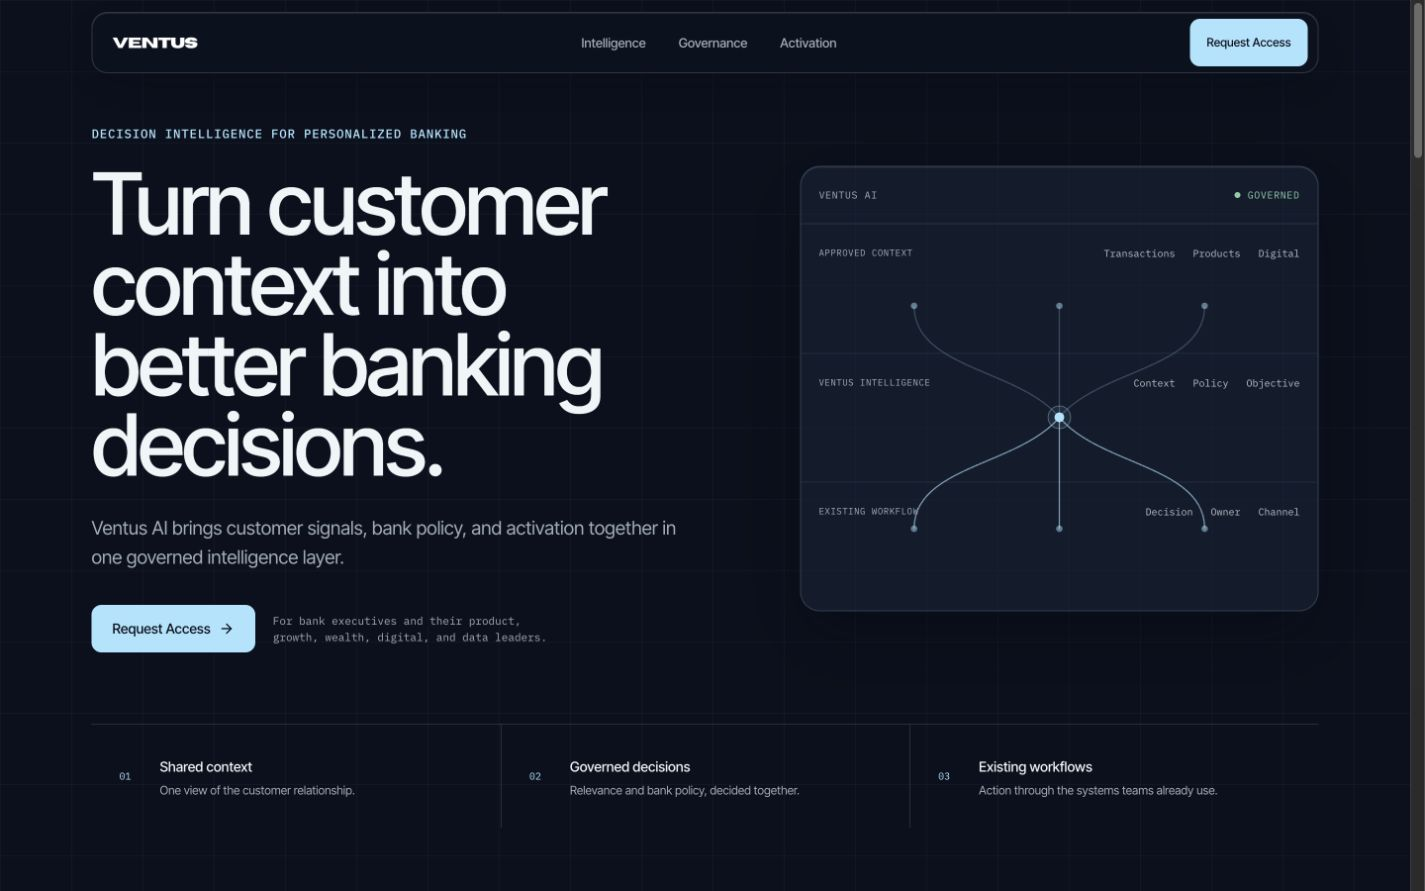
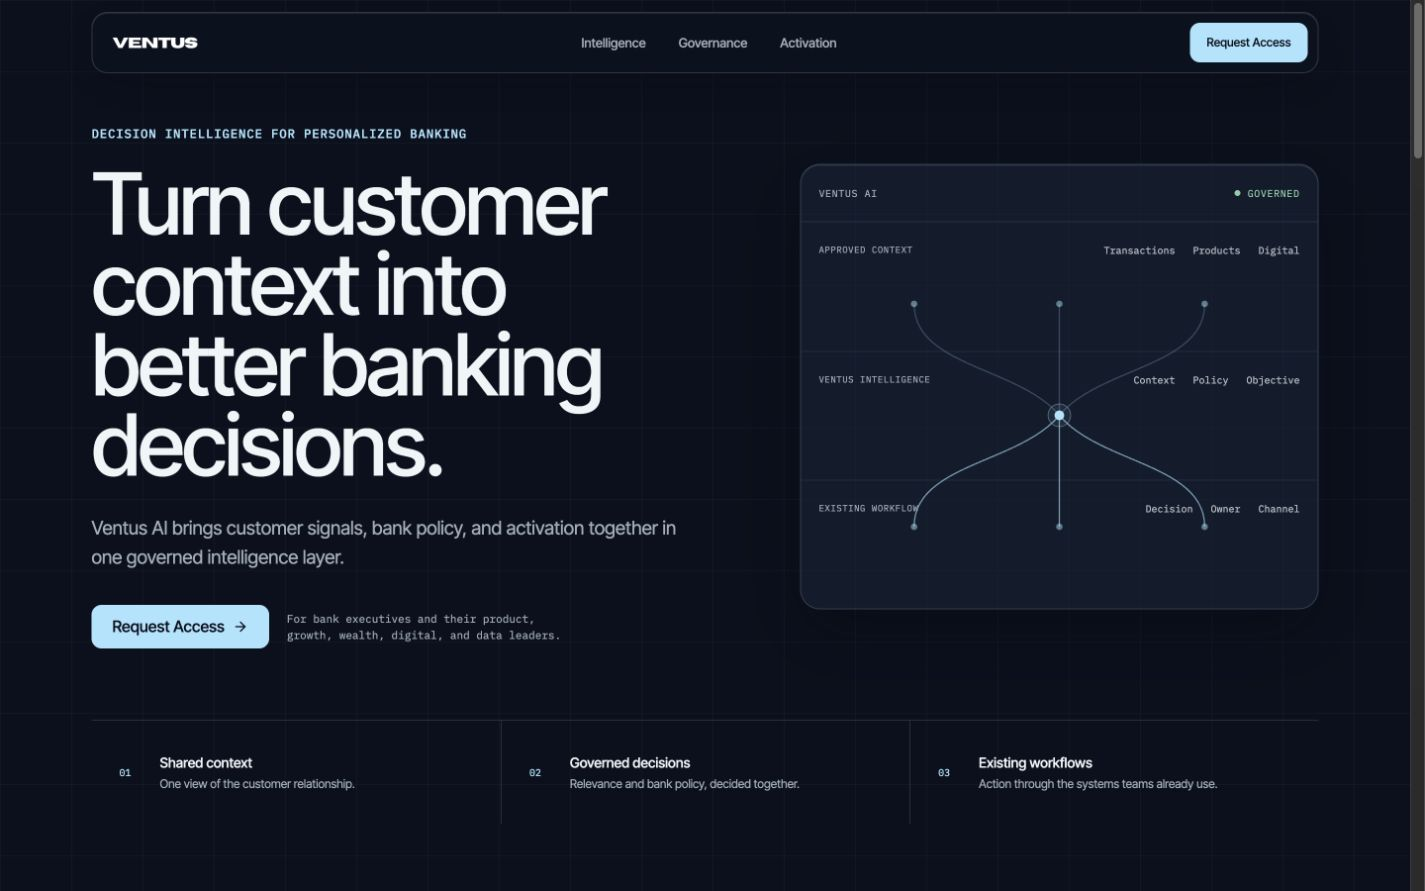
Record Finnovate preview acceptance evidence

diff --git a/docs/finnovate-landing-acceptance.md b/docs/finnovate-landing-acceptance.md
@@ -4,17 +4,18 @@ Date: 2026-08-31
 Branch: `feat/finnovate-landing`  
 Baseline: `origin/dev@1595b9a80fa43da45916e4d8c2ff33b7688861a8`  
 Local preview: `http://127.0.0.1:8081/`
+Amplify preview: `https://feat-finnovate-landing.d1gaewa028qzng.amplifyapp.com/`
 
 ## Build and static checks
 
 | Check | Result | Evidence |
 | --- | --- | --- |
 | Production build | Pass | `npm run build`; Vite completed successfully. Existing large legacy chunk warnings remain. |
-| Landing-scoped lint | Pass, zero output | `eslint src/landing src/App.tsx supabase/functions/request-access/index.ts` |
-| Landing source QA | Pass | `npm run qa:landing`; 22 landing files checked. |
+| Landing-scoped lint | Pass, zero output | `eslint src/main.tsx src/landing src/App.tsx supabase/functions/request-access/index.ts` |
+| Landing source QA | Pass | `npm run qa:landing`; 24 landing files checked. |
 | Repo-wide lint baseline | Known failure outside scope | 353 errors and 89 warnings; recorded before landing integration. |
 | Dirty draft preserved | Pass | Original `ventus-ai-dev-wave-b-audit-9a2b` worktree remains unchanged. |
-| Landing bundle isolation | Pass | `LandingPage-*.js` contains no legacy FAQ, Solutions, Schedule Demo, or Learn More strings; legacy `Index-*.js` is a separate lazy chunk. |
+| Landing bundle isolation | Pass | Direct `/` entry loads landing CSS only and does not load the legacy global stylesheet, legacy app shell, FAQ/Solutions copy, or legacy editor script. Legacy routes retain their own entry path. |
 
 ## Structure and content
 
@@ -44,6 +45,7 @@ The browser viewport override was set to each requested size. The browser backen
 
 Additional evidence:
 
+- [Amplify preview](./landing-qa/screenshots/amplify-preview-1440x900.png): optimized build rendered from the DEVELOPMENT branch.
 - [Mobile menu](./landing-qa/screenshots/mobile-menu-375x812.png): 48 px anchor rows, 44 px menu control, body scroll lock, Escape close.
 - [Intelligence](./landing-qa/screenshots/intelligence-1440x900.png): integrated chapter head and single sticky FlowPlane.
 - [Decide state](./landing-qa/screenshots/intelligence-decide-1440x900.png): active stage and plane state change together.
@@ -75,15 +77,15 @@ Additional evidence:
 - [x] Client validates Name, Work email, Institution, and Role; decision is optional.
 - [x] Client invokes the dedicated Supabase `request-access` Edge Function rather than `mailto:`.
 - [x] Edge Function validates and escapes payloads, honors a honeypot, restricts CORS, and sends through Resend to `info@ventusai.com` with reply-to set to the requester.
-- [ ] Edge Function deployed to the approved Supabase project.
-- [ ] `RESEND_API_KEY` and sender domain verified in the deployed environment.
-- [ ] Live success and failure paths exercised against the deployed endpoint.
+- [ ] Edge Function deployed to the approved Supabase project. The authenticated CLI account received project-level HTTP 403 for both secret-name inspection and function deployment.
+- [ ] `RESEND_API_KEY` and sender domain verified in the deployed environment. Blocked by the same project permission boundary; no secret value was requested or exposed.
+- [ ] Live success and failure paths exercised against the deployed endpoint. Client-side validation and local failure handling pass; live success awaits function deployment.
 
 ## Deployment and performance gates
 
-- [ ] Feature branch pushed and an Amplify dev/PR preview URL recorded.
-- [ ] Preview routes and Request Access smoke-tested on Amplify.
-- [ ] Lighthouse run against the preview with throttled 4G; LCP under 2.5 s confirmed.
+- [x] Feature branch pushed and Amplify DEVELOPMENT preview recorded: `https://feat-finnovate-landing.d1gaewa028qzng.amplifyapp.com/`.
+- [x] Preview root, `/classic`, `/bankdemo`, `/contact`, and `/platform` return HTTP 200; root structure, CTA count, anchors, overflow, font isolation, and glass regions pass in the live browser.
+- [ ] Request Access live submission on Amplify awaits Supabase function deployment; the modal, required-field validation, focus behavior, and failure state pass locally.
+- [x] Lighthouse mobile simulated-4G run against the optimized preview: Performance 98, LCP 2.2 s, FCP 1.4 s, TBT 0 ms, CLS 0.011.
 - [ ] Human UI/copy approval recorded before any merge.
-- [ ] Zoheb remains the production merge/deployment owner; no production deployment performed.
-
+- [x] Zoheb remains the production merge/deployment owner; no production deployment performed.
